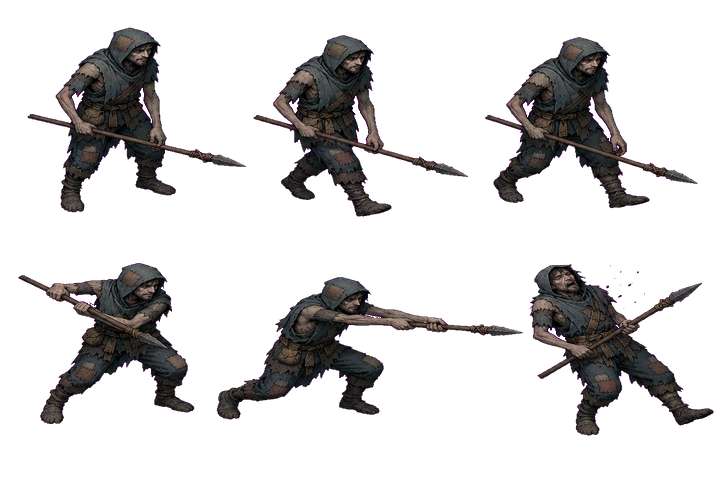
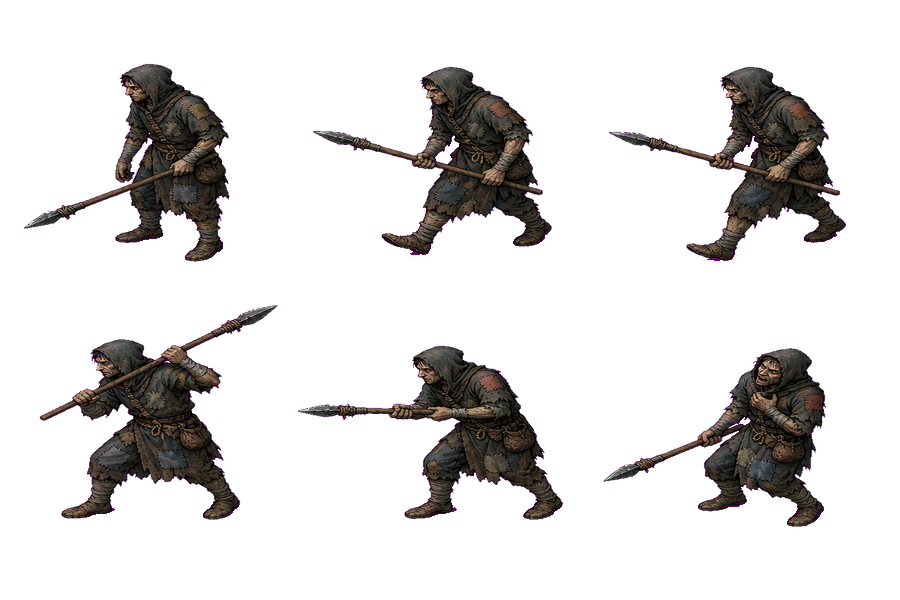
fix(characters): calmer walk, dedupe attack audio, spear no longer clipped
Three issues the owner caught in play, root-caused and fixed:

1. Walk looked jittery/"乱七八糟": the engine walk motion compounded a too-fast
   bob (~6Hz), a per-frame body lean (rotating around the feet = head swing),
   and the idle-breath scaleY tween all at once. Now: gentle ~2Hz bob (phase
   0.14/frame, amp 3), no lean, and the breath tween is paused while walking so
   it can't fight the bob. Frame order [1,0,2,0] was already correct.

2. Weird sound while moving-and-attacking: the attack cue was played TWICE per
   attack - once in combatAudio (PlayerAttacked listener) and again in
   createGameClient.onPlayerAttack - so every swing doubled/flammed. Removed the
   duplicate; combatAudio is the single owner now. (Instrumented pure movement:
   no combat/audio events fire on movement alone, so the doubled attack cue was
   the spurious sound.)

3. Spear clipped mid-attack: the long spear in the thrust pose extended past its
   grid cell and got cut by the slicer. Regenerated the spear action sheet with
   the spear held diagonally and a short jab so the whole shaft+tip stays inside
   every cell; re-sliced (QA pass) + despilled. Verified the sheet and in-engine
   frame - full spear, no cut.

Self-verified (no owner testing): walk bob cadence measured calmer; spear sheet
+ in-engine frame show no clipping; build green.

diff --git a/client/src/game/entities/PlayerMarker.ts b/client/src/game/entities/PlayerMarker.ts
@@ -40,6 +40,7 @@ export class PlayerMarker {
   private weaponType: WeaponType;
   private actionLockedUntil = 0;
   private walkPhase = 0;
+  private breathTween?: Phaser.Tweens.Tween;
   private lastHp = 0;
   private lastNameplateText = "";
   private lastNameplateColor = "";
@@ -179,14 +180,17 @@ export class PlayerMarker {
         if (this.body.anims.currentAnim?.key !== walkKey) {
           this.body.anims.play(walkKey, true);
         }
-        // 走路颠动 + 轻微侧倾，让移动读得出来
-        this.walkPhase += 0.32;
-        const bob = Math.abs(Math.sin(this.walkPhase)) * 4;
+        // 走路颠动：~2 步/秒的温和上下弹（0.14/帧），不做侧倾（绕脚旋转会甩头显乱）。
+        // 走路时暂停待机呼吸的 scaleY，避免和颠动叠加成抖动。
+        this.breathTween?.pause();
+        this.walkPhase += 0.14;
+        const bob = Math.abs(Math.sin(this.walkPhase)) * 3;
         this.body.setY(BODY_BASE_Y - bob);
-        this.body.setAngle(Math.sin(this.walkPhase) * 2.2);
+        this.body.setAngle(0);
       } else {
         this.playIdle();
-        if (this.body.y !== BODY_BASE_Y) {
+        this.breathTween?.resume();
+        if (this.body.y !== BODY_BASE_Y || this.body.angle !== 0) {
           this.body.setY(BODY_BASE_Y);
           this.body.setAngle(0);
         }
@@ -224,7 +228,7 @@ export class PlayerMarker {
   }
 
   private startIdleBreath(scene: Phaser.Scene): void {
-    scene.tweens.add({
+    this.breathTween = scene.tweens.add({
       targets: this.body,
       scaleY: this.body.scaleY * 0.975,
       duration: 1300,

diff --git a/client/src/scenes/createGameClient.ts b/client/src/scenes/createGameClient.ts
@@ -192,9 +192,8 @@ export function createGameClientController(
       options.onInventoryChange?.(normalized);
     },
     onPlayerAttack(payload) {
-      if (payload.playerId === controller.getSelfPlayerId()) {
-        audio.play("attack");
-      }
+      // 攻击音效统一由 combatAudio（监听 PlayerAttacked）播放；这里不再重复 play，
+      // 否则同一次攻击会叠两遍音（移动中攻击时尤其像"怪声"）。
       getScene()?.onPlayerAttack?.(payload);
     },
     setTimer(secondsRemaining) {